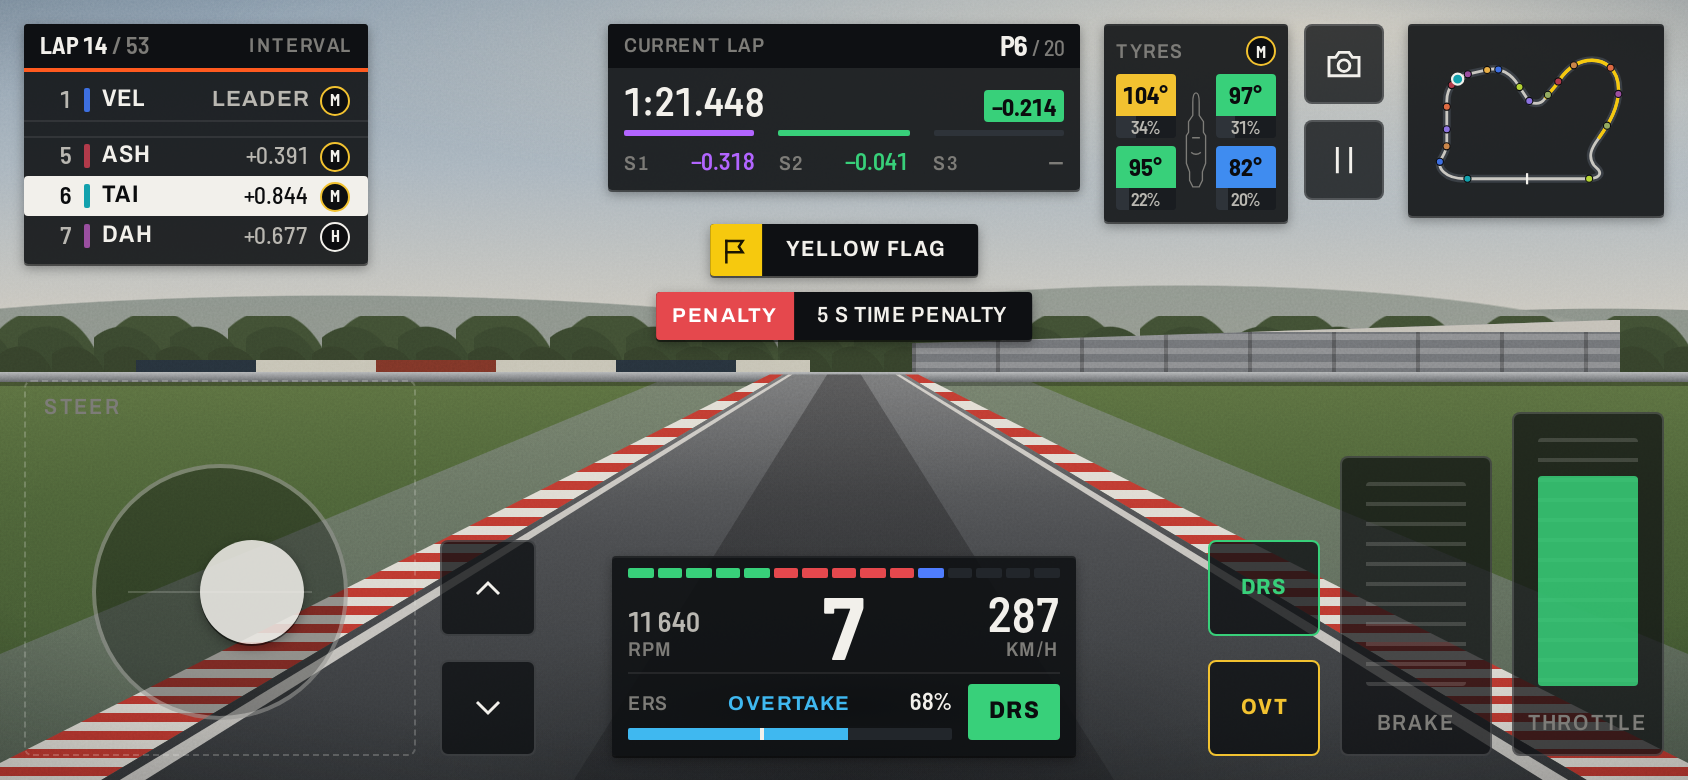
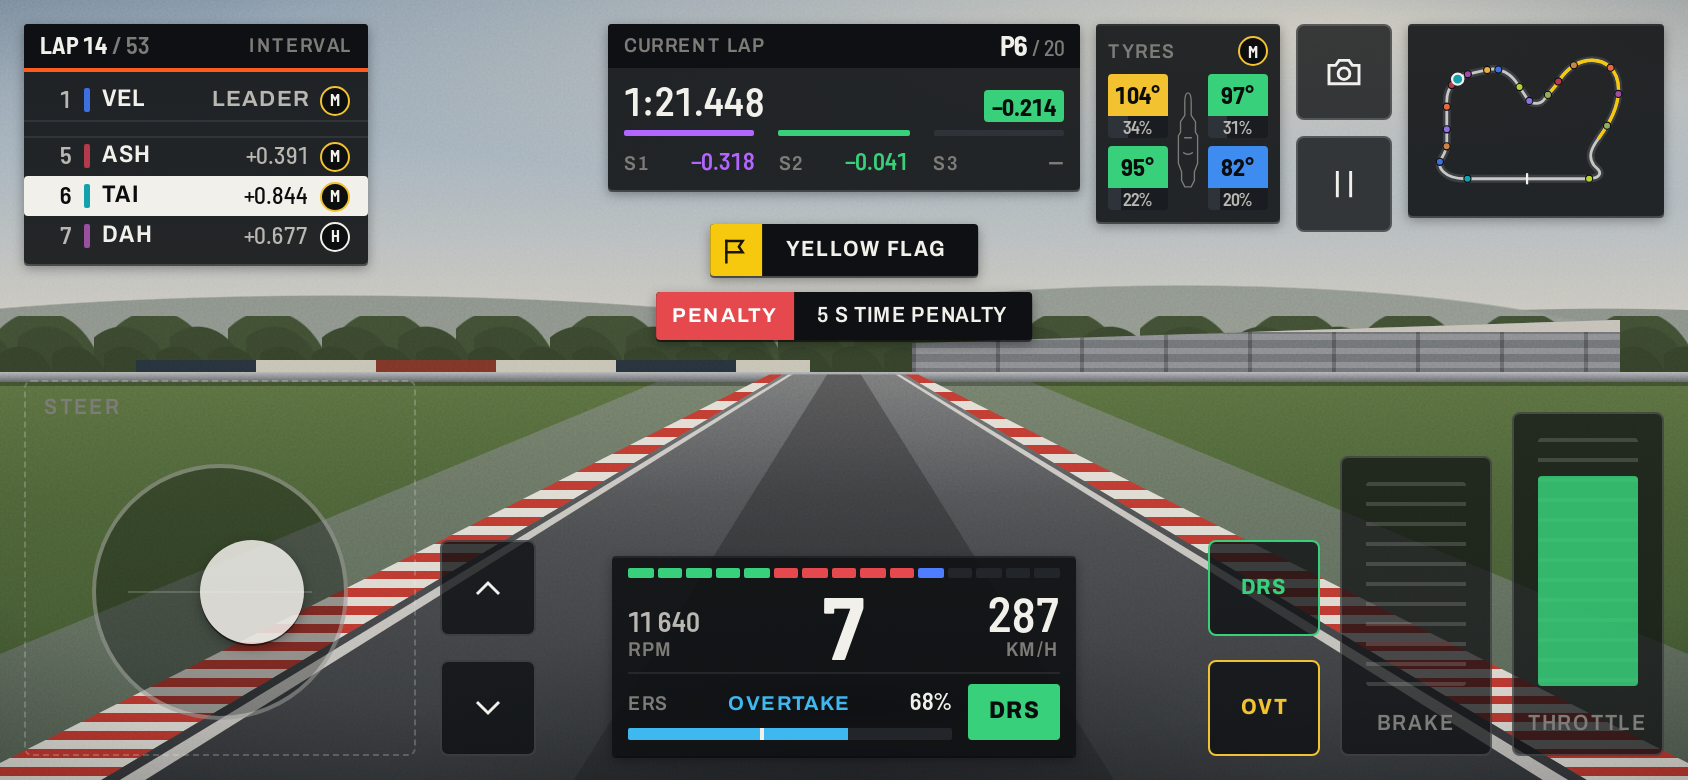
Give phone camera and pause buttons full touch size

Changed region(s): [[0.6469, 0.0308, 0.8318, 0.3077]]

diff --git a/design/mock/hud.html b/design/mock/hud.html
@@ -290,7 +290,7 @@
     .map .head { display: none; }
 
     .cluster { right: auto; left: 50%; transform: translateX(-50%); bottom: var(--safe); gap: 6px; }
-    .tyres { top: var(--safe); bottom: auto; right: calc(var(--safe) + 188px); width: 92px; padding: 6px; }
+    .tyres { top: var(--safe); bottom: auto; right: calc(var(--safe) + 192px); width: 92px; padding: 6px; }
     .tyres .head { margin-bottom: 4px; }
     .tyres .head .label { font-size: var(--fs-10); }
     .tyres .head .cmp .label { display: none; }
@@ -342,8 +342,8 @@
     .pedal.brk { right: calc(var(--safe) + 86px); }
     .drs-btn { right: calc(var(--safe) + 172px); bottom: calc(var(--safe) + 60px); width: 56px; border-color: var(--c-drs); color: var(--c-drs); }
     .ovt-btn { right: calc(var(--safe) + 172px); bottom: var(--safe); width: 56px; border-color: var(--c-ers-deploy); color: var(--c-ers-deploy); }
-    .cam-btn { right: calc(var(--safe) + 140px); top: var(--safe); width: 40px; height: 40px; }
-    .pause-btn { right: calc(var(--safe) + 140px); top: calc(var(--safe) + 48px); width: 40px; height: 40px; }
+    .cam-btn { right: calc(var(--safe) + 136px); top: var(--safe); }
+    .pause-btn { right: calc(var(--safe) + 136px); top: calc(var(--safe) + 56px); }
   }
 </style>
 </head>

diff --git a/docs/adr/0005-car-model.md b/docs/adr/0005-car-model.md
@@ -33,7 +33,7 @@ If the owner wants a reference model for proportions (not for shipping), these a
 | | Blender by script (headless, Python) | TypeScript lofted surfaces in the engine |
 |---|---|---|
 | Quality ceiling | High: subdivision surfaces, bevels, booleans, curve extrusions, proper UV unwrapping, baked AO, curvature and normal maps, Cycles reference renders | Medium: lofts and sweeps are fine for wings and the nose; sidepods, the floor and suspension joints need tooling we would have to write (no booleans, no bevel, no bakes) |
-| Iteration speed for an agent that only sees renders | Fast: about 3 s to build and export, about 30 s for a 1600×1000 Cycles render on the RTX 4050; any angle, any lighting | Fast to rebuild, but each look needs a browser capture, and there is no ground-truth renderer to compare against |
+| Iteration speed for an agent that only sees renders | Fast: under 1 s to build and export, about 30 s for a 1600×1000 Cycles render on the RTX 4050; any angle, any lighting | Fast to rebuild, but each look needs a browser capture, and there is no ground-truth renderer to compare against |
 | File size | glTF with Draco (or meshopt) quantisation; LODs built by the same script with fewer sections | Zero download for geometry, but the generator code ships and runs on every device, including phones |
 | Liveries | Shared UV layout; per-team masks rendered by the script from `design/teams.json`; decals in an atlas | Same masks possible, but UVs must be generated by our own code |
 | Animated parts | Named nodes with pivots on the real axes, exported in the glTF hierarchy; the game drives them | Same, built in code |
@@ -54,7 +54,7 @@ Renders (Cycles, OptiX, 256 samples, AgX, studio HDRI from Poly Haven for lighti
 | hero (renders, cockpit view) | 78,236 | 198 KB |
 | game (`--lod game`) | 16,040 | 70 KB |
 
-Build and export take about 3 s; the two renders take about 30 s.
+Build and export take under 1 s; build plus the two renders take about 30 s.
 
 Gaps seen in the proof, to fix in M2: the endplate faces are flat (no bowing, slots or footplate curl); the flaps' spanwise wave is a little stylised; carbon and the livery band are procedural Blender shaders, which do not survive glTF export, so in the game they become a tiling carbon detail texture and a livery mask (see below); no baked AO yet.
 
